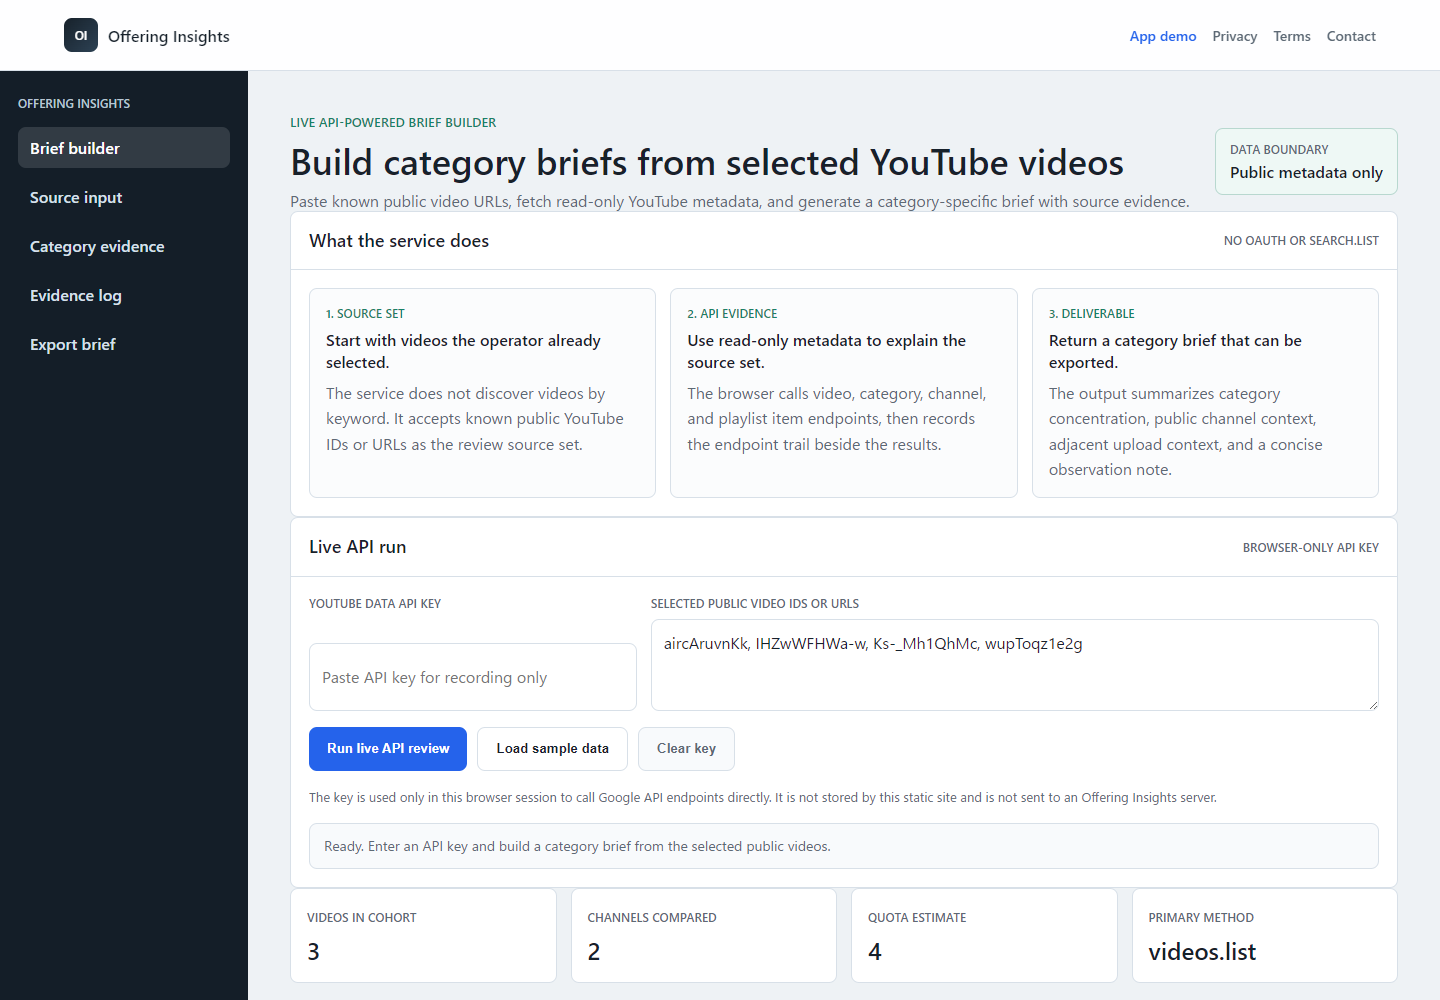
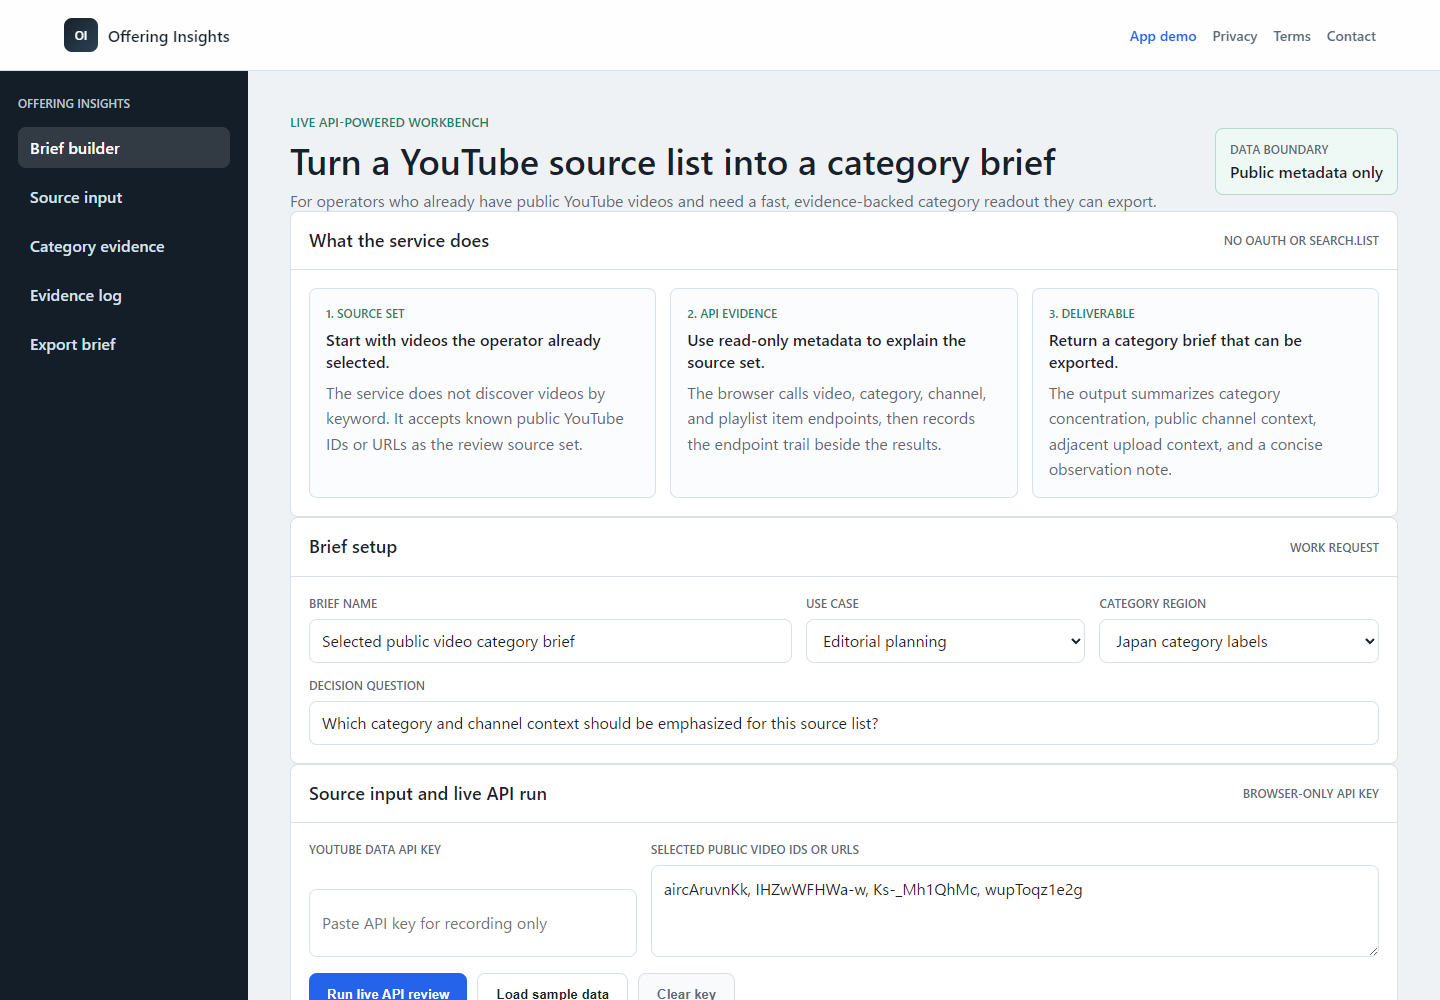
Make category brief builder service-oriented

diff --git a/script.js b/script.js
@@ -90,6 +90,10 @@ const sampleReview = {
 
 const elements = {
   apiKey: document.getElementById("api-key"),
+  briefTitle: document.getElementById("brief-title"),
+  briefAudience: document.getElementById("brief-audience"),
+  regionCode: document.getElementById("region-code"),
+  decisionQuestion: document.getElementById("decision-question"),
   videoIds: document.getElementById("video-ids"),
   runLive: document.getElementById("run-live"),
   loadSample: document.getElementById("load-sample"),
@@ -102,14 +106,25 @@ const elements = {
   briefMode: document.getElementById("brief-mode"),
   briefResult: document.getElementById("brief-result"),
   categoryLabel: document.getElementById("category-label"),
+  sourceTable: document.getElementById("source-table"),
   videoTable: document.getElementById("video-table"),
   channelList: document.getElementById("channel-list"),
   playlistList: document.getElementById("playlist-list"),
   endpointLog: document.getElementById("endpoint-log"),
   reportOutput: document.getElementById("report-output"),
   copyReport: document.getElementById("copy-report"),
+  downloadReport: document.getElementById("download-report"),
   copyStatus: document.getElementById("copy-status")
 };
+
+function getBriefConfig() {
+  return {
+    title: elements.briefTitle?.value.trim() || "Selected public video category brief",
+    audience: elements.briefAudience?.value || "editorial planning",
+    regionCode: elements.regionCode?.value || "JP",
+    question: elements.decisionQuestion?.value.trim() || "Which category and channel context should be emphasized for this source list?"
+  };
+}
 
 function setStatus(message, tone = "neutral") {
   elements.apiState.textContent = message;
@@ -219,6 +234,7 @@ function normalizePlaylistItem(item) {
 async function runLiveReview() {
   const apiKey = elements.apiKey.value.trim();
   const videoIds = extractVideoIds(elements.videoIds.value);
+  const config = getBriefConfig();
 
   if (!apiKey) {
     setStatus("Enter a YouTube Data API key before running the live review.", "warning");
@@ -239,7 +255,7 @@ async function runLiveReview() {
     const categoriesPayload = await requestYouTube(
       "youtube.videoCategories.list",
       "videoCategories",
-      { part: "snippet", regionCode: "JP", key: apiKey },
+      { part: "snippet", regionCode: config.regionCode, key: apiKey },
       endpointLog
     );
     const categoryMap = Object.fromEntries(
@@ -289,6 +305,7 @@ async function runLiveReview() {
 
     renderReview({
       source: "live",
+      config,
       videos,
       channels,
       playlistItems,
@@ -336,6 +353,7 @@ function summarizeByCategory(videos) {
 function renderReview(review) {
   const categorySummaries = summarizeByCategory(review.videos);
   const quotaEstimate = review.endpointLog.reduce((total, item) => total + (item.cost || 0), 0);
+  const config = review.config || getBriefConfig();
 
   elements.metricVideos.textContent = formatNumber(review.videos.length);
   elements.metricChannels.textContent = formatNumber(review.channels.length);
@@ -343,7 +361,22 @@ function renderReview(review) {
   elements.metricEndpoint.textContent = "videos.list";
   elements.categoryLabel.textContent = review.source === "live" ? "Live API results" : "Sample data";
   elements.briefMode.textContent = review.source === "live" ? "Live API deliverable" : "Sample deliverable";
-  renderBriefResult(review, categorySummaries, quotaEstimate);
+  renderBriefResult(review, categorySummaries, quotaEstimate, config);
+
+  elements.sourceTable.innerHTML = review.videos.map(video => `
+    <tr>
+      <td>
+        <strong>${escapeHtml(video.title)}</strong>
+        <div class="muted-line">${escapeHtml(video.id || "sample video")} - ${formatDate(video.publishedAt)}</div>
+      </td>
+      <td>${escapeHtml(video.categoryName)}</td>
+      <td>${escapeHtml(video.channelTitle)}</td>
+      <td>
+        <span class="signal">${formatNumber(video.viewCount)} views</span>
+        <span class="signal">${formatNumber(video.likeCount)} likes</span>
+      </td>
+    </tr>
+  `).join("");
 
   elements.videoTable.innerHTML = categorySummaries.map(summary => `
     <tr>
@@ -394,10 +427,10 @@ function renderReview(review) {
     </li>
   `).join("");
 
-  elements.reportOutput.textContent = buildReport(review, categorySummaries, quotaEstimate);
+  elements.reportOutput.textContent = buildReport(review, categorySummaries, quotaEstimate, config);
 }
 
-function renderBriefResult(review, categorySummaries, quotaEstimate) {
+function renderBriefResult(review, categorySummaries, quotaEstimate, config) {
   const primary = categorySummaries[0];
   const categoryCount = categorySummaries.length;
   const videoCount = review.videos.length;
@@ -435,24 +468,24 @@ function renderBriefResult(review, categorySummaries, quotaEstimate) {
 
   elements.briefResult.innerHTML = `
     <article>
-      <span>Primary category</span>
+      <span>Answer</span>
       <strong>${escapeHtml(primary.categoryName)} leads this source set.</strong>
-      <p>${formatNumber(primary.count)} of ${formatNumber(videoCount)} selected videos fall in this category, representing ${formatNumber(concentration)}% of the current cohort.</p>
+      <p>For ${escapeHtml(config.audience)}, emphasize this category first: ${formatNumber(primary.count)} of ${formatNumber(videoCount)} selected videos fall here, representing ${formatNumber(concentration)}% of the current cohort.</p>
     </article>
     <article>
-      <span>Coverage evidence</span>
+      <span>Evidence</span>
       <strong>${formatNumber(categoryCount)} categories and ${formatNumber(channelCount)} public channels reviewed.</strong>
       <p>Top public channel context: ${escapeHtml(topChannel?.title || "No channel returned")}. ${escapeHtml(playlistNote)}</p>
     </article>
     <article>
-      <span>Exportable output</span>
+      <span>Next action</span>
       <strong>Brief generated with ${formatNumber(quotaEstimate)} estimated quota units.</strong>
-      <p>The report below cites ${formatNumber(endpointCount)} read-only API call${endpointCount === 1 ? "" : "s"} and keeps the boundary to public metadata.</p>
+      <p>Export the brief for the question: ${escapeHtml(config.question)} It cites ${formatNumber(endpointCount)} read-only API call${endpointCount === 1 ? "" : "s"}.</p>
     </article>
   `;
 }
 
-function buildReport(review, categorySummaries, quotaEstimate) {
+function buildReport(review, categorySummaries, quotaEstimate, config) {
   const mode = review.source === "live" ? "Live YouTube Data API run" : "Sample data demonstration";
   const categoryLines = categorySummaries.map(summary => (
     `- ${summary.categoryName}: ${summary.count} sampled video(s), ${summary.channelCount} channel(s), average public views ${formatNumber(summary.averageViews)}. Top sample: "${summary.topVideo.title}".`
@@ -462,10 +495,12 @@ function buildReport(review, categorySummaries, quotaEstimate) {
   ));
 
   return [
-    "Offering Insights category-specific observation report",
+    config.title,
     "Service outcome: Build a category brief from operator-selected public YouTube videos.",
-    "Review question: How do selected public videos compare across YouTube categories, and which public channel signals help explain that distribution?",
+    `Use case: ${config.audience}`,
+    `Decision question: ${config.question}`,
     `Mode: ${mode}`,
+    `Category region: ${config.regionCode}`,
     "Data boundary: public YouTube metadata only; no OAuth, no private user data, no uploads, no comment moderation.",
     "Input method: operator-selected public video IDs or URLs; no youtube.search.list keyword lookup.",
     `Videos sampled: ${review.videos.length}`,
@@ -478,8 +513,13 @@ function buildReport(review, categorySummaries, quotaEstimate) {
     "Category observations:",
     ...categoryLines,
     "",
+    "Source evidence:",
+    ...review.videos.map(video => (
+      `- ${video.title} | category=${video.categoryName} | channel=${video.channelTitle} | views=${formatNumber(video.viewCount)} | published=${formatDate(video.publishedAt)}`
+    )),
+    "",
     "Reporting use case:",
-    "The dashboard supports editorial and research planning by comparing a deliberately selected cohort, grouping returned videos by YouTube category, adding public channel context, reviewing adjacent public playlist membership, and producing a concise observation report."
+    "The dashboard supports a real review workflow by turning a selected public source list into a category brief, evidence table, endpoint audit trail, and exportable observation report."
   ].join("\n");
 }
 
@@ -492,9 +532,23 @@ async function copyReport() {
   }
 }
 
+function downloadReport() {
+  const blob = new Blob([elements.reportOutput.textContent], { type: "text/plain;charset=utf-8" });
+  const url = URL.createObjectURL(blob);
+  const link = document.createElement("a");
+  const filename = `${getBriefConfig().title.toLowerCase().replace(/[^a-z0-9]+/g, "-").replace(/^-|-$/g, "") || "offering-insights-brief"}.txt`;
+  link.href = url;
+  link.download = filename;
+  document.body.append(link);
+  link.click();
+  link.remove();
+  URL.revokeObjectURL(url);
+  elements.copyStatus.textContent = "Download ready.";
+}
+
 elements.runLive?.addEventListener("click", runLiveReview);
 elements.loadSample?.addEventListener("click", () => {
-  renderReview(sampleReview);
+  renderReview({ ...sampleReview, config: getBriefConfig() });
   setStatus("Sample public video cohort loaded. Use the live API run for screencast evidence.", "warning");
 });
 elements.clearKey?.addEventListener("click", () => {
@@ -502,5 +556,6 @@ elements.clearKey?.addEventListener("click", () => {
   setStatus("API key field cleared.", "neutral");
 });
 elements.copyReport?.addEventListener("click", copyReport);
+elements.downloadReport?.addEventListener("click", downloadReport);
 
-renderReview(sampleReview);
+renderReview({ ...sampleReview, config: getBriefConfig() });

diff --git a/app.html b/app.html
@@ -35,10 +35,10 @@
       <section class="dashboard">
         <div class="dashboard-top">
           <div>
-            <p class="eyebrow">Live API-powered brief builder</p>
-            <h1>Build category briefs from selected YouTube videos</h1>
+            <p class="eyebrow">Live API-powered workbench</p>
+            <h1>Turn a YouTube source list into a category brief</h1>
             <p class="dashboard-subtitle">
-              Paste known public video URLs, fetch read-only YouTube metadata, and generate a category-specific brief with source evidence.
+              For operators who already have public YouTube videos and need a fast, evidence-backed category readout they can export.
             </p>
           </div>
           <div class="status-strip" aria-label="API status">
@@ -71,9 +71,44 @@
           </div>
         </section>
 
+        <section class="panel setup-panel" aria-labelledby="brief-setup-title">
+          <div class="panel-heading">
+            <h2 id="brief-setup-title">Brief setup</h2>
+            <span>Work request</span>
+          </div>
+          <div class="control-body">
+            <div class="setup-grid">
+              <label class="field">
+                <span>Brief name</span>
+                <input id="brief-title" type="text" spellcheck="false" value="Selected public video category brief">
+              </label>
+              <label class="field">
+                <span>Use case</span>
+                <select id="brief-audience">
+                  <option value="editorial planning">Editorial planning</option>
+                  <option value="research notes">Research notes</option>
+                  <option value="content review">Content review</option>
+                </select>
+              </label>
+              <label class="field">
+                <span>Category region</span>
+                <select id="region-code">
+                  <option value="JP">Japan category labels</option>
+                  <option value="US">United States category labels</option>
+                  <option value="GB">United Kingdom category labels</option>
+                </select>
+              </label>
+              <label class="field wide">
+                <span>Decision question</span>
+                <input id="decision-question" type="text" spellcheck="false" value="Which category and channel context should be emphasized for this source list?">
+              </label>
+            </div>
+          </div>
+        </section>
+
         <section class="panel control-panel" aria-labelledby="live-api-title">
           <div class="panel-heading">
-            <h2 id="live-api-title">Live API run</h2>
+            <h2 id="live-api-title">Source input and live API run</h2>
             <span>Browser-only API key</span>
           </div>
           <div class="control-body">
@@ -123,7 +158,7 @@
         <div class="dashboard-grid">
           <section class="panel wide-panel service-result-panel">
             <div class="panel-heading">
-              <h2>Brief result</h2>
+              <h2>Decision brief</h2>
               <span id="brief-mode">Sample deliverable</span>
             </div>
             <div class="brief-result" id="brief-result">
@@ -142,6 +177,30 @@
                 <strong>Export review note</strong>
                 <p>Copy the generated report for the YouTube API Services review response or internal notes.</p>
               </article>
+            </div>
+          </section>
+
+          <section class="panel wide-panel">
+            <div class="panel-heading">
+              <h2>Source evidence</h2>
+              <span>videos.list results</span>
+            </div>
+            <div class="table-wrap">
+              <table>
+                <thead>
+                  <tr>
+                    <th>Video</th>
+                    <th>Category</th>
+                    <th>Channel</th>
+                    <th>Public signals</th>
+                  </tr>
+                </thead>
+                <tbody id="source-table">
+                  <tr>
+                    <td colspan="4">Run a live API review or load sample data to inspect the source set.</td>
+                  </tr>
+                </tbody>
+              </table>
             </div>
           </section>
 
@@ -216,6 +275,7 @@
               <pre id="report-output">Run the review to generate a concise report from public YouTube metadata.</pre>
               <div class="action-row">
                 <button class="button secondary action-button" id="copy-report" type="button">Copy report</button>
+                <button class="button secondary action-button" id="download-report" type="button">Download brief</button>
                 <span class="copy-status" id="copy-status"></span>
               </div>
             </div>

diff --git a/styles.css b/styles.css
@@ -574,6 +574,12 @@ h3 {
   padding: 18px;
 }
 
+.setup-grid {
+  display: grid;
+  grid-template-columns: minmax(220px, 0.95fr) minmax(180px, 0.55fr) minmax(180px, 0.55fr);
+  gap: 14px;
+}
+
 .input-grid {
   display: grid;
   grid-template-columns: minmax(220px, 0.45fr) minmax(280px, 1fr);
@@ -589,6 +595,10 @@ h3 {
   min-width: 0;
 }
 
+.setup-grid .field.wide {
+  grid-column: 1 / -1;
+}
+
 .field span {
   color: var(--muted);
   font-size: 12px;
@@ -597,6 +607,7 @@ h3 {
 }
 
 input,
+select,
 textarea {
   width: 100%;
   border: 1px solid var(--line);
@@ -606,7 +617,8 @@ textarea {
   font: inherit;
 }
 
-input {
+input,
+select {
   min-height: 44px;
   padding: 0 12px;
 }
@@ -618,6 +630,7 @@ textarea {
 }
 
 input:focus,
+select:focus,
 textarea:focus {
   outline: 3px solid rgba(37, 99, 235, 0.18);
   border-color: var(--blue);
@@ -690,6 +703,7 @@ textarea:focus {
 
 .control-panel,
 .brief-panel,
+.setup-panel,
 .wide-panel {
   grid-column: 1 / -1;
 }
@@ -966,6 +980,10 @@ td {
   }
 
   .input-grid {
+    grid-template-columns: 1fr;
+  }
+
+  .setup-grid {
     grid-template-columns: 1fr;
   }
 

diff --git a/README.md b/README.md
@@ -24,11 +24,12 @@ Use `app.html` for the follow-up screencast requested by the YouTube API Service
 Recommended recording flow:
 
 1. Open `https://naosan.github.io/offering-insights/app.html`.
-2. Paste the YouTube Data API key into the browser-only API key field.
-3. Keep the selected public video IDs or paste other public video URLs selected outside the API.
-4. Click `Run live API review`.
-5. Show the generated brief result, category observations, channel context, playlist review, endpoint audit trail, and generated report.
-6. State that the demo uses public metadata only and does not use OAuth, uploads, private user data, `search.list`, or `videos.insert`.
+2. Set the brief name, use case, category region, and decision question.
+3. Paste the YouTube Data API key into the browser-only API key field.
+4. Keep the selected public video IDs or paste other public video URLs selected outside the API.
+5. Click `Run live API review`.
+6. Show the decision brief, source evidence table, category observations, channel context, playlist review, endpoint audit trail, generated report, and download action.
+7. State that the demo uses public metadata only and does not use OAuth, uploads, private user data, `search.list`, or `videos.insert`.
 
 ## GitHub Pages publishing notes
 